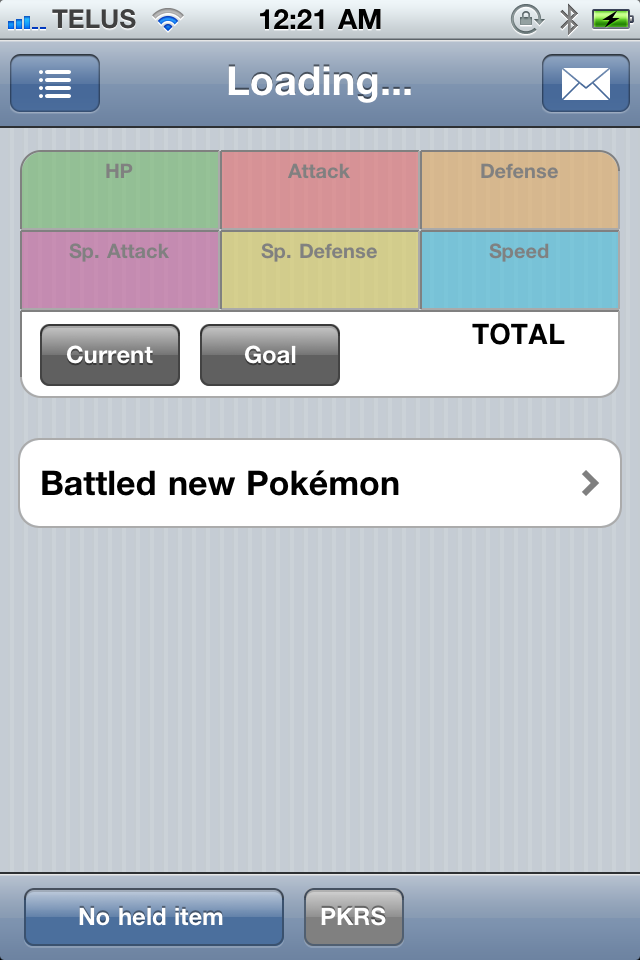
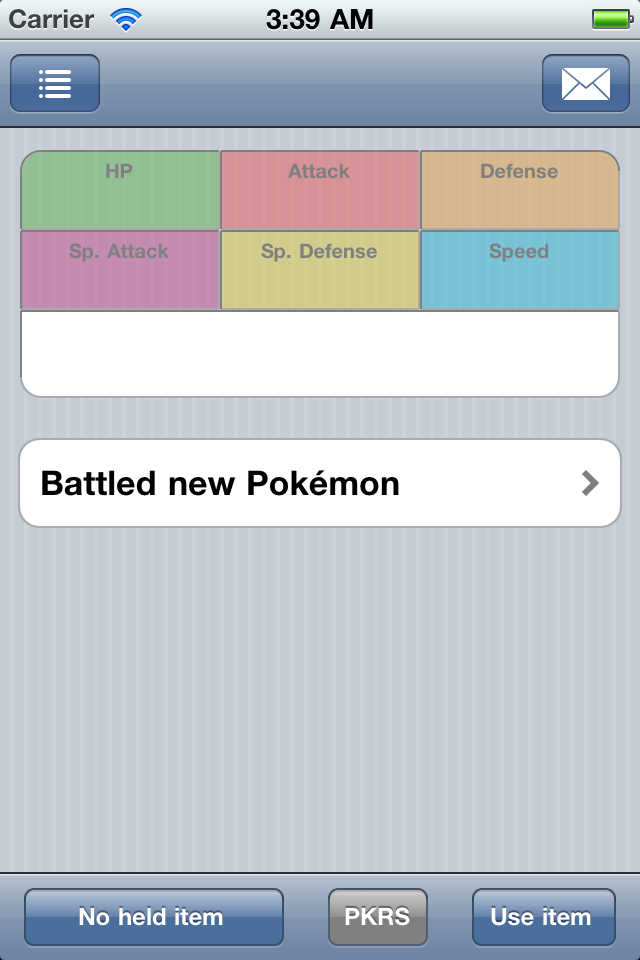
improve tap responsiveness of ConsumableItem list; rename "Remove" pokemon from recently battled list to "Hide"; update launch images; new development provisioning profile

diff --git a/PokemonEV/Classes/View Controllers/TrackerViewController.m b/PokemonEV/Classes/View Controllers/TrackerViewController.m
@@ -130,9 +130,11 @@ NSInteger const UseItemActionSheetTag = 102;
 
 - (void)refreshView
 {
+	self.navigationItem.title = @"";
+	
 	if (LaunchImage)
 	{
-		self.navigationItem.title = @"Loading...";
+		self.pokemon = nil;
 	}
 	else if (pokemon)
 	{
@@ -140,7 +142,6 @@ NSInteger const UseItemActionSheetTag = 102;
 	}
 	else
 	{
-		self.navigationItem.title = @"";
 		return;
 	}
 	
@@ -166,7 +167,7 @@ NSInteger const UseItemActionSheetTag = 102;
 	[pokerusButton addTarget:self action:@selector(pokerusTapped:) forControlEvents:UIControlEventTouchUpInside];
 	pokerusButton.selected = pokemon.pokerusValue;
 	
-	TTButton *useItemButton = [TTButton buttonWithStyle:@"imageTitleToolbarButton:" title:@"Use Item"];
+	TTButton *useItemButton = [TTButton buttonWithStyle:@"imageTitleToolbarButton:" title:@"Use item"];
 	useItemButton.frame = CGRectMake(0, 0, 72, 33);
 	[useItemButton addTarget:self action:@selector(useItemButtonTapped) forControlEvents:UIControlEventTouchUpInside];
 	
@@ -544,7 +545,7 @@ NSInteger const UseItemActionSheetTag = 102;
 
 - (NSString *)tableView:(UITableView *)tableView titleForDeleteConfirmationButtonForRowAtIndexPath:(NSIndexPath *)indexPath
 {
-	return @"Remove";
+	return @"Hide";
 }
 
 #pragma mark - Held item list

diff --git a/PokemonEV/Classes/View Controllers/UseItemListViewController.m b/PokemonEV/Classes/View Controllers/UseItemListViewController.m
@@ -177,7 +177,7 @@
 
 - (void)tableView:(UITableView *)tableView didSelectRowAtIndexPath:(NSIndexPath *)indexPath
 {
-	[tableView deselectRowAtIndexPath:indexPath animated:YES];
+	[tableView deselectRowAtIndexPath:indexPath animated:NO];
 	
 	ConsumableItem *item = [items objectAtIndex:indexPath.row];
 	
@@ -200,7 +200,7 @@
 	}
 	else
 	{
-		[tableView reloadRowsAtIndexPaths:[NSArray arrayWithObject:indexPath] withRowAnimation:UITableViewRowAnimationFade];
+		[tableView reloadRowsAtIndexPaths:[NSArray arrayWithObject:indexPath] withRowAnimation:UITableViewRowAnimationNone];
 	}
 }
 

diff --git a/PokemonEV/Classes/Views/EVCountFooterCell.m b/PokemonEV/Classes/Views/EVCountFooterCell.m
@@ -87,6 +87,14 @@
   
   [self updateEVTotalViews];
   [self updateTitleLabel];
+	
+	if (LaunchImage)
+	{
+		while ([self.contentView.subviews count] > 1)
+		{
+			[[self.contentView.subviews objectAtIndex:1] removeFromSuperview];
+		}
+	}
 }
 
 - (void)updateEVTotalViews
